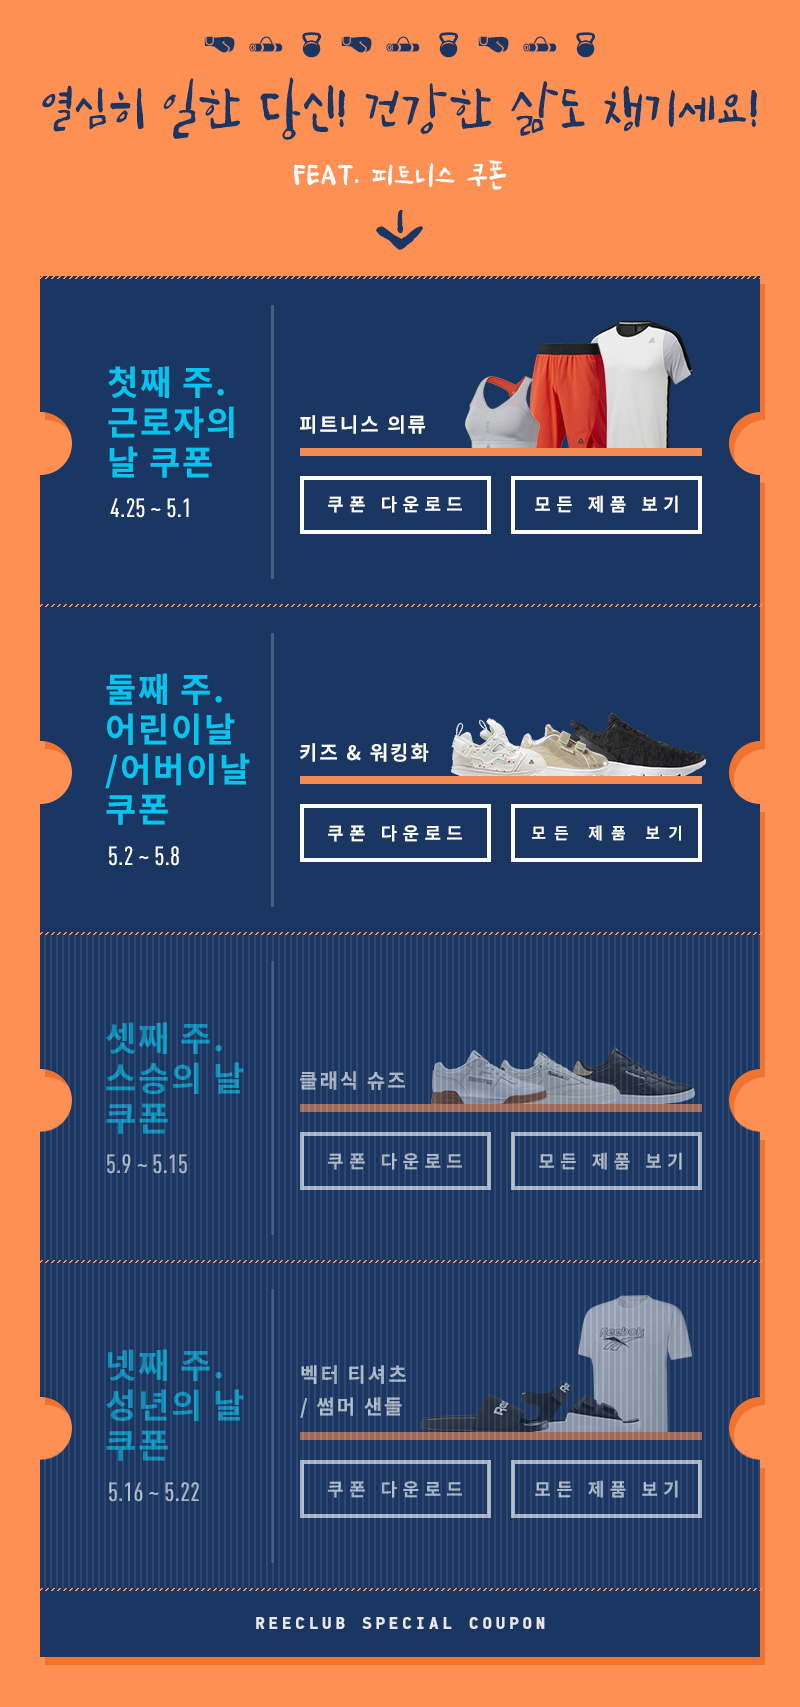
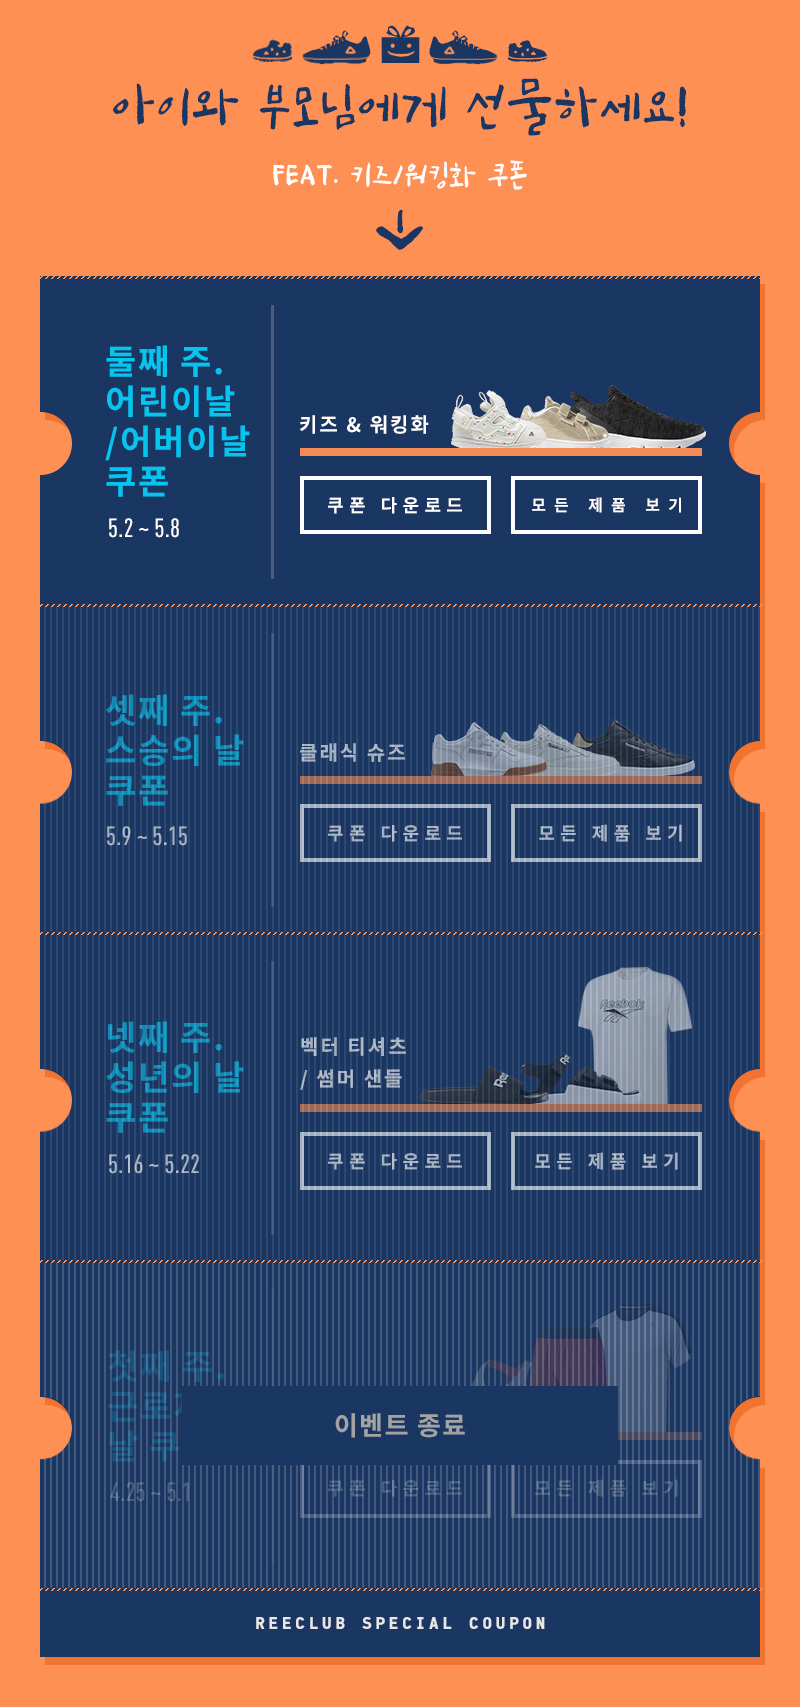
ree_CP_familyFest

diff --git a/mobile/html/reebok/pn/2019Family.html b/mobile/html/reebok/pn/2019Family.html
@@ -22,10 +22,10 @@
 						</div>
 						<div class="cont_container scroll">
 							<img src="/images/reebok/2019/event/family/1904_contContainer_MO.jpg" alt="">
-							<a href="http://m.reebok.co.kr/MO/Club/cponPublMem.action?KEY=C1WKVLE22D" class="lnk4"></a>
-							<a href="http://shop.reebok.co.kr/RPF070801.action?pageNo=836" class="lnk5"></a>
-							<a href="http://m.reebok.co.kr/MO/Club/cponPublMem.action?KEY=B8GXS6OOT9" class="lnk6"></a>
-							<a href="http://shop.reebok.co.kr/RPF070801.action?pageNo=838" class="lnk7"></a>
+							<a href="http://m.reebok.co.kr/MO/Club/cponPublMem.action?KEY=B8GXS6OOT9" class="lnk4"></a>
+							<a href="http://shop.reebok.co.kr/RPF070801.action?pageNo=838" class="lnk5"></a>
+							<!-- <a href="http://m.reebok.co.kr/MO/Club/cponPublMem.action?KEY=B8GXS6OOT9" class="lnk6"></a>
+							<a href="http://shop.reebok.co.kr/RPF070801.action?pageNo=838" class="lnk7"></a> -->
 							
 							<!-- 3주차
 							http://m.reebok.co.kr/MO/Club/cponPublMem.action?KEY=90S94YLPKT

diff --git a/mobile/html/reebok/2019/event/family/build/index.html b/mobile/html/reebok/2019/event/family/build/index.html
@@ -149,10 +149,10 @@
 					</div>
 					<div class="cont_container scroll">
 						<img src="/images/reebok/2019/event/family/1904_contContainer_MO.jpg" alt="">
-						<a href="http://m.reebok.co.kr/MO/Club/cponPublMem.action?KEY=C1WKVLE22D" class="lnk4"></a>
-						<a href="http://shop.reebok.co.kr/RPF070801.action?pageNo=836" class="lnk5"></a>
-						<a href="http://m.reebok.co.kr/MO/Club/cponPublMem.action?KEY=B8GXS6OOT9" class="lnk6"></a>
-						<a href="http://shop.reebok.co.kr/RPF070801.action?pageNo=838" class="lnk7"></a>
+						<a href="http://m.reebok.co.kr/MO/Club/cponPublMem.action?KEY=B8GXS6OOT9" class="lnk4"></a>
+						<a href="http://shop.reebok.co.kr/RPF070801.action?pageNo=838" class="lnk5"></a>
+						<!-- <a href="http://m.reebok.co.kr/MO/Club/cponPublMem.action?KEY=B8GXS6OOT9" class="lnk6"></a>
+						<a href="http://shop.reebok.co.kr/RPF070801.action?pageNo=838" class="lnk7"></a> -->
 						
 						<!-- 3주차
 						http://m.reebok.co.kr/MO/Club/cponPublMem.action?KEY=90S94YLPKT

diff --git a/mobile/html/reebok/2019/event/family/index.html b/mobile/html/reebok/2019/event/family/index.html
@@ -147,10 +147,10 @@
 					</div>
 					<div class="cont_container scroll">
 						<img src="/images/reebok/2019/event/family/1904_contContainer_MO.jpg" alt="">
-						<a href="http://m.reebok.co.kr/MO/Club/cponPublMem.action?KEY=C1WKVLE22D" class="lnk4"></a>
-						<a href="http://shop.reebok.co.kr/RPF070801.action?pageNo=836" class="lnk5"></a>
-						<a href="http://m.reebok.co.kr/MO/Club/cponPublMem.action?KEY=B8GXS6OOT9" class="lnk6"></a>
-						<a href="http://shop.reebok.co.kr/RPF070801.action?pageNo=838" class="lnk7"></a>
+						<a href="http://m.reebok.co.kr/MO/Club/cponPublMem.action?KEY=B8GXS6OOT9" class="lnk4"></a>
+						<a href="http://shop.reebok.co.kr/RPF070801.action?pageNo=838" class="lnk5"></a>
+						<!-- <a href="http://m.reebok.co.kr/MO/Club/cponPublMem.action?KEY=B8GXS6OOT9" class="lnk6"></a>
+						<a href="http://shop.reebok.co.kr/RPF070801.action?pageNo=838" class="lnk7"></a> -->
 						
 						<!-- 3주차
 						http://m.reebok.co.kr/MO/Club/cponPublMem.action?KEY=90S94YLPKT
